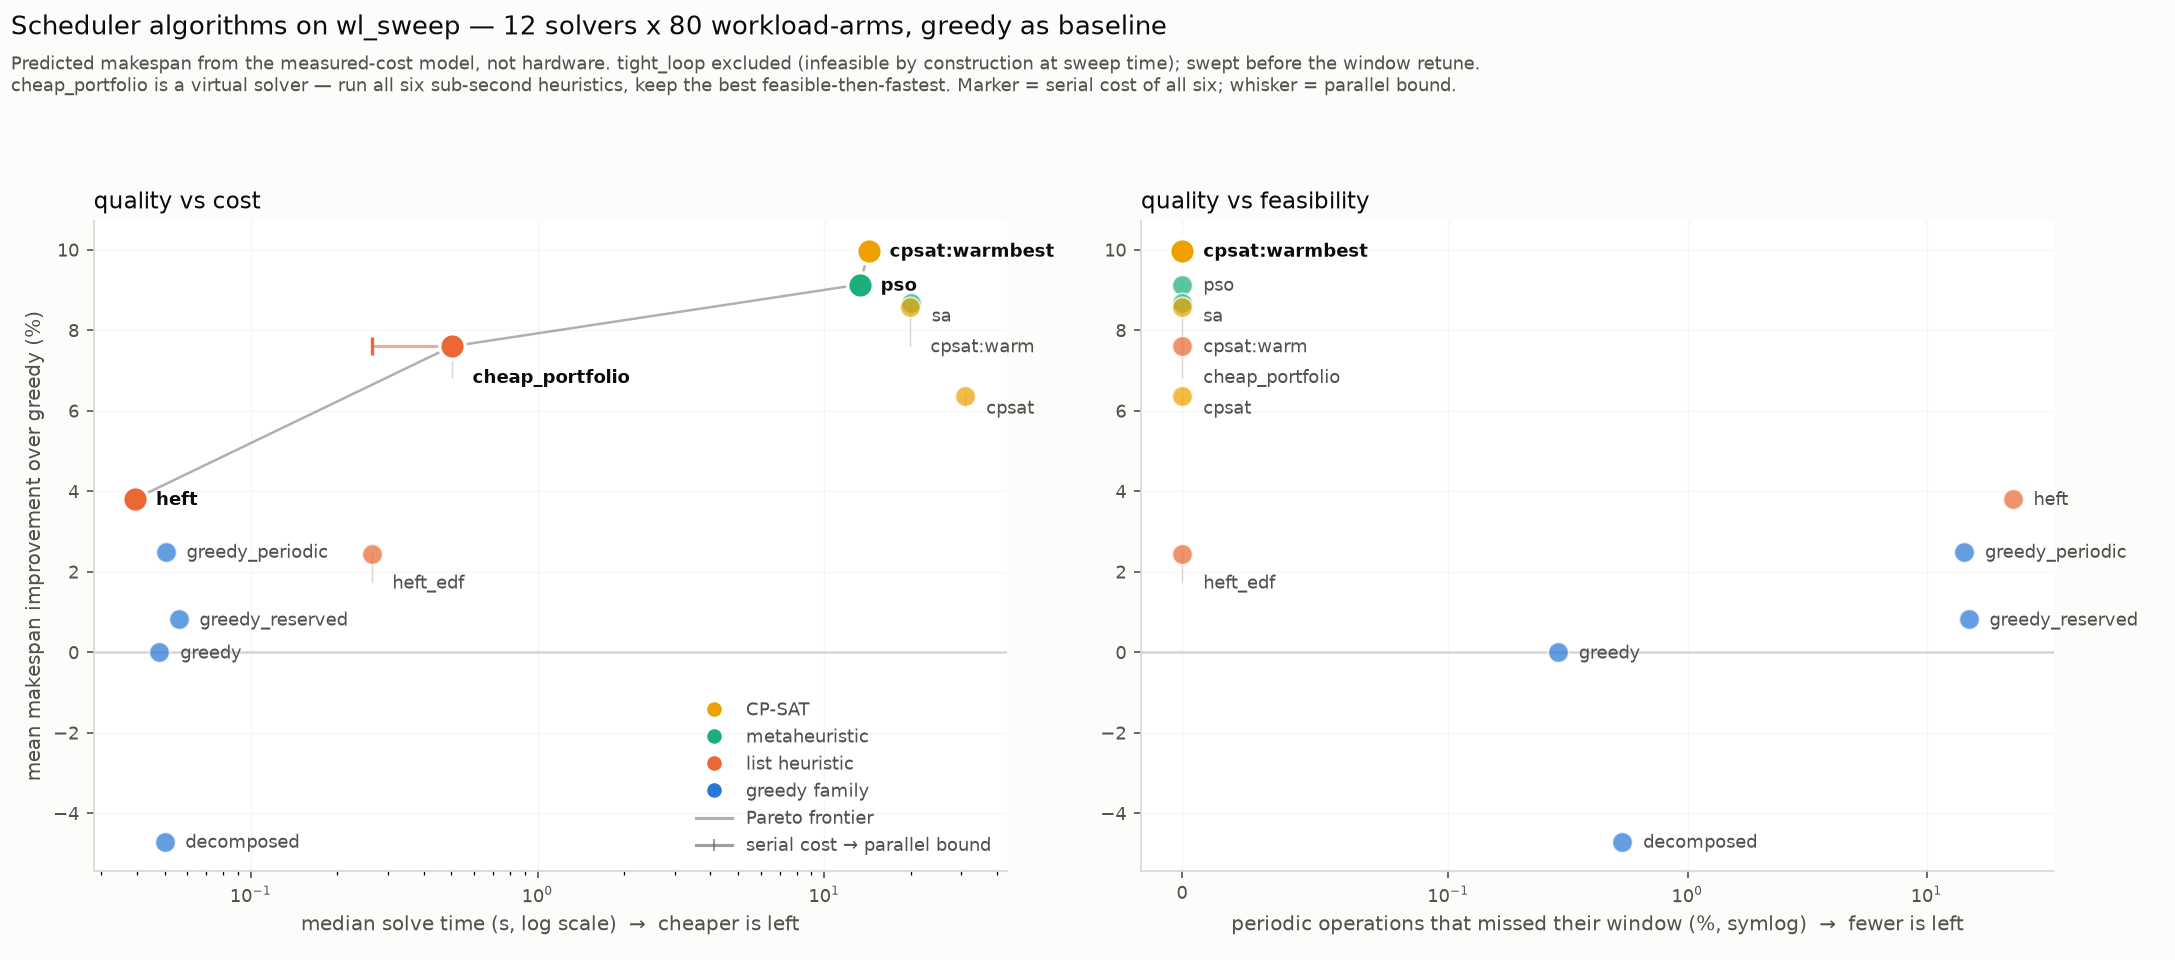
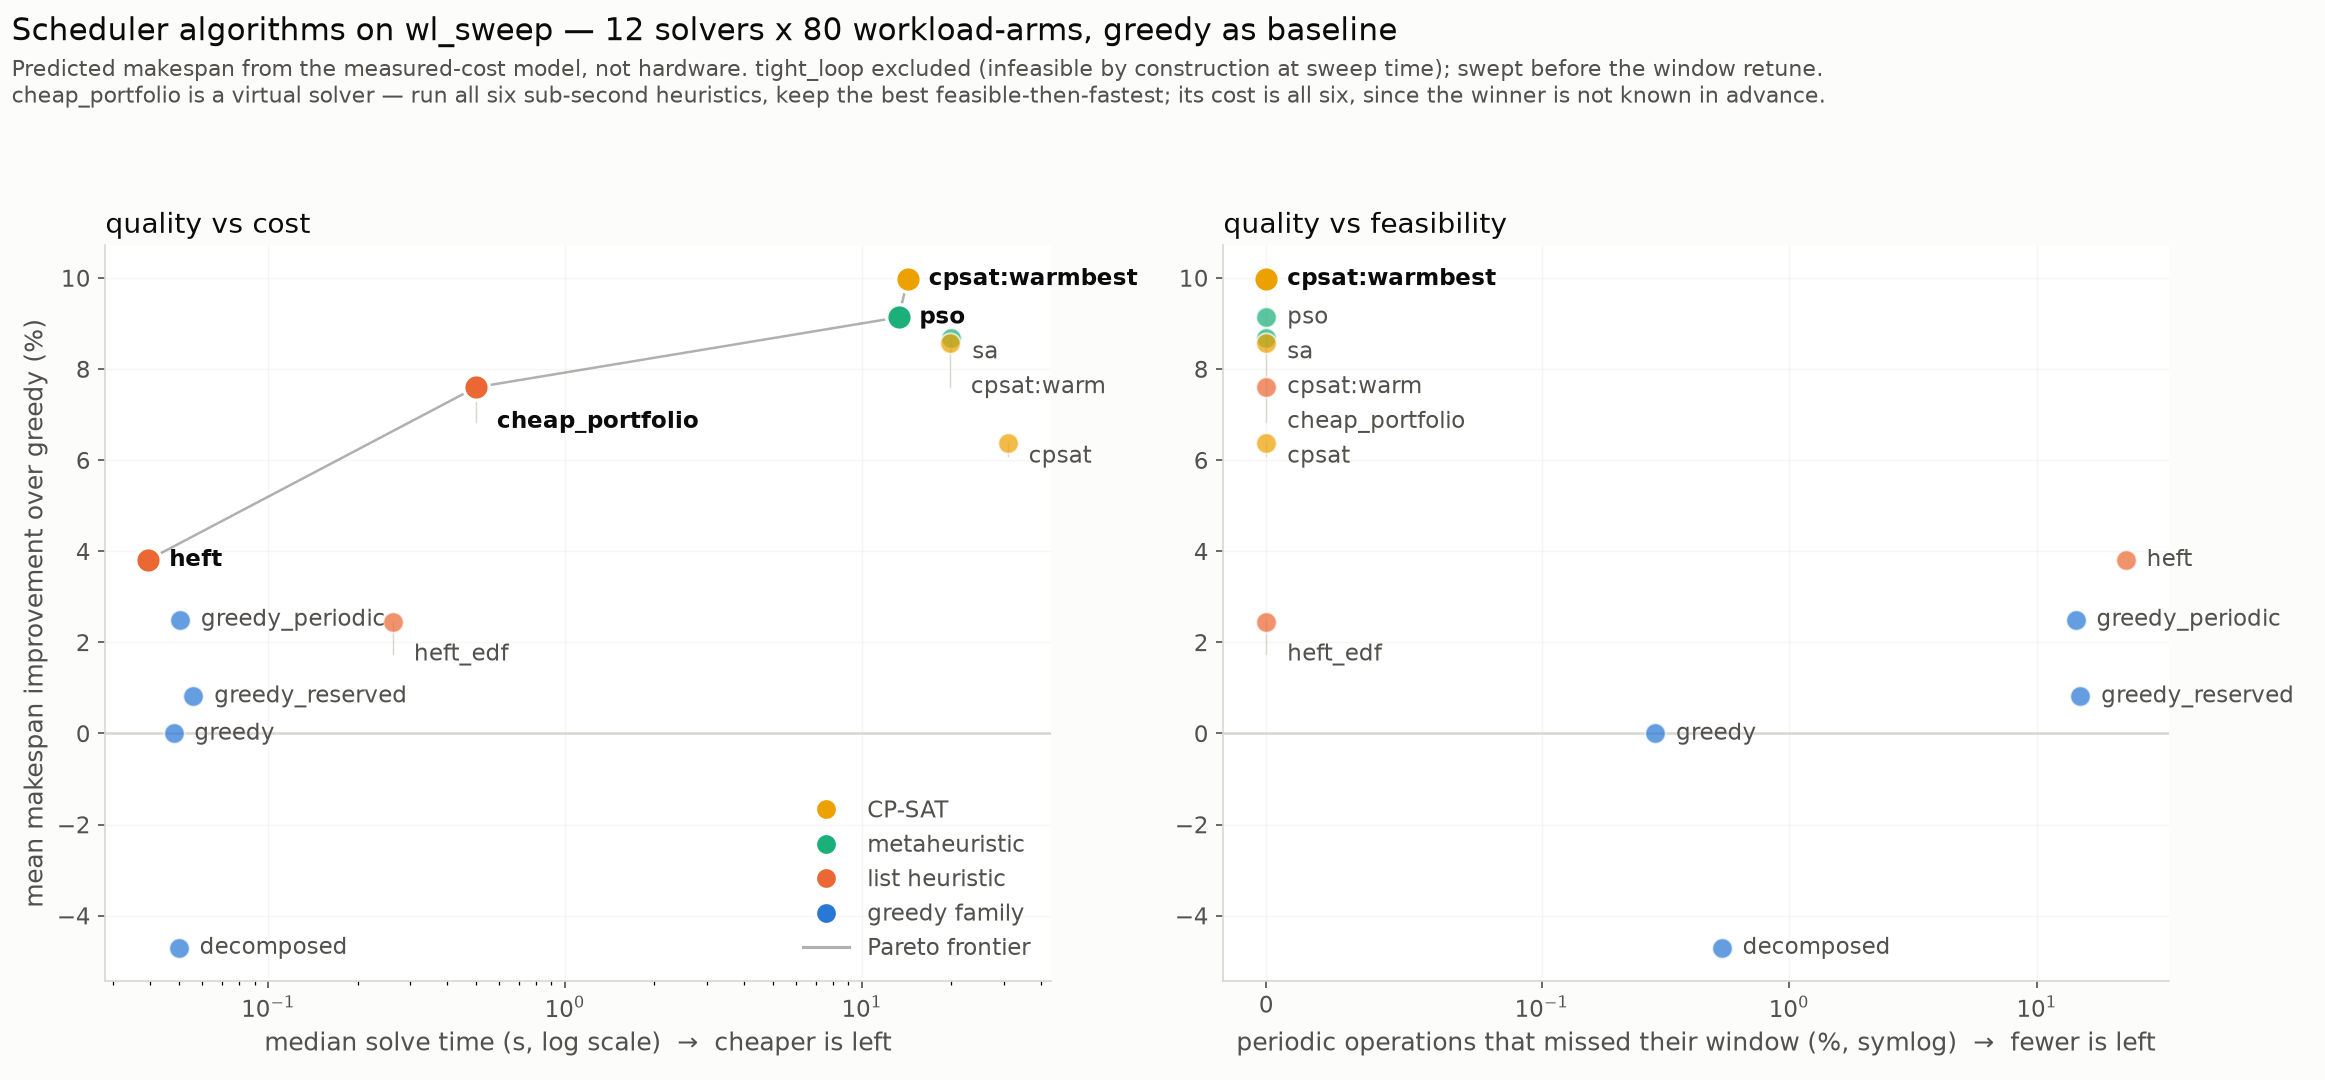
sched_algo_sweep10: drop the parallel-cost whisker, larger type
The serial-vs-parallel split was a distinction without a decision. You cannot
know which of the six heuristics wins on a given workload without running all
of them, so every one is on the critical path to the answer and the portfolio's
cost is all six regardless of how they are scheduled. Charging it anything less
would be quoting a number nobody can act on. Marker is the full cost; the
whisker and its caption are gone.

Type sizes up throughout -- point labels, axis labels, ticks, legend and titles
-- with the figure widened so nothing crowds.

diff --git a/experiments/sched_algo_sweep10/scripts/plot_pareto.py b/experiments/sched_algo_sweep10/scripts/plot_pareto.py
@@ -80,27 +80,11 @@ for r in rows:
     if po:
         miss_pct[s].append(m / po * 100.0)
 
-# COST HONESTY. cheap_portfolio is a virtual solver charged the SERIAL sum of
-# its six members, and cpsat:warmbest runs that same portfolio inline to build
-# its hint. But the six are independent, so the achievable cost is the SLOWEST
-# of them, not their sum. Rather than pick one number, plot the measured serial
-# cost as the marker and whisker left to the parallel bound.
-par_bound = {}
-_ser, _par, _wb = [], [], []
-for k, d in wall_by_cell.items():
-    six = [d[c] for c in CHEAP6 if c in d]
-    if len(six) != 6:
-        continue
-    _ser.append(sum(six)); _par.append(max(six))
-    if "cpsat:warmbest" in d:
-        _wb.append(d["cpsat:warmbest"] - (sum(six) - max(six)))
-if _par:
-    par_bound["cheap_portfolio"] = statistics.median(_par)
-if _wb:
-    par_bound["cpsat:warmbest"] = statistics.median(_wb)
-
+# The portfolio's cost is the sum of all six members, and that is the honest
+# number: you cannot know which of the six wins on a given workload without
+# running all of them, so every one is on the critical path to the answer.
 S = sorted(imp, key=lambda s: -statistics.mean(imp[s]))
-fig, (ax1, ax2) = plt.subplots(1, 2, figsize=(14.5, 6.4))
+fig, (ax1, ax2) = plt.subplots(1, 2, figsize=(15.5, 7.2))
 
 
 def frontier(ax, xs, ys, names, lower_x_better=True):
@@ -142,34 +126,30 @@ for ax, xs, xlabel, scale in (
         ax.scatter([x], [y], s=150 if on else 95, color=col, zorder=3,
                    edgecolor="white", linewidth=1.6 if on else 0.9,
                    alpha=1.0 if on else 0.72)
-        # whisker to the parallel-execution bound, on the cost axis only
-        if scale == "log" and s in par_bound and par_bound[s] < x:
-            ax.plot([par_bound[s], x], [y, y], color=col, lw=1.5, alpha=0.55, zorder=2)
-            ax.plot([par_bound[s]], [y], marker="|", color=col, ms=9, mew=1.6, zorder=3)
         ly = label_y[i]
         # a hairline leader only when the label had to move off its point
         if abs(ly - y) > gap * 0.35:
             ax.plot([x, x], [y, ly], color=GRID, lw=0.7, zorder=2)
         ax.annotate(s, (x, ly), textcoords="offset points", xytext=(10, -3),
-                    fontsize=8.5, color=INK if on else INK2,
+                    fontsize=11, color=INK if on else INK2,
                     fontweight="bold" if on else "normal", zorder=4)
     # symlog, not log, on the misses axis: six solvers sit at EXACTLY zero
     # misses, and a linear axis crushes them into one pile against heft's 2930
     # so no frontier can form. symlog keeps zero as a real, plottable value.
     ax.set_xscale(scale, **({"linthresh": 0.1} if scale == "symlog" else {}))
     ax.axhline(0, color=GRID, lw=1.2, zorder=0)
-    ax.set_xlabel(xlabel, fontsize=9.5, color=INK2)
+    ax.set_xlabel(xlabel, fontsize=12, color=INK2)
     ax.grid(alpha=0.22, lw=0.6, color=GRID)
     ax.set_axisbelow(True)
     for sp in ("top", "right"):
         ax.spines[sp].set_visible(False)
     for sp in ("left", "bottom"):
         ax.spines[sp].set_color(GRID)
-    ax.tick_params(colors=INK2, labelsize=8.5)
+    ax.tick_params(colors=INK2, labelsize=11)
 
-ax1.set_ylabel("mean makespan improvement over greedy (%)", fontsize=9.5, color=INK2)
-ax1.set_title("quality vs cost", fontsize=11, color=INK, loc="left")
-ax2.set_title("quality vs feasibility", fontsize=11, color=INK, loc="left")
+ax1.set_ylabel("mean makespan improvement over greedy (%)", fontsize=12, color=INK2)
+ax1.set_title("quality vs cost", fontsize=13.5, color=INK, loc="left")
+ax2.set_title("quality vs feasibility", fontsize=13.5, color=INK, loc="left")
 
 seen, handles = set(), []
 from matplotlib.lines import Line2D
@@ -177,23 +157,21 @@ for s in S:
     fam, col = FAMILY[s]
     if fam in seen: continue
     seen.add(fam)
-    handles.append(Line2D([], [], marker="o", ls="", color=col, markersize=8,
+    handles.append(Line2D([], [], marker="o", ls="", color=col, markersize=10,
                           markeredgecolor="white", label=fam))
 handles.append(Line2D([], [], ls="-", color=INK2, alpha=0.45, label="Pareto frontier"))
-handles.append(Line2D([], [], ls="-", marker="|", color=INK2, alpha=0.55,
-                      label="serial cost → parallel bound"))
-ax1.legend(handles=handles, loc="lower right", frameon=False, fontsize=8.5,
+ax1.legend(handles=handles, loc="lower right", frameon=False, fontsize=11,
            labelcolor=INK2)
 
 fig.suptitle("Scheduler algorithms on wl_sweep — 12 solvers x 80 workload-arms, "
-             "greedy as baseline", fontsize=12.5, color=INK, x=0.005, ha="left",
+             "greedy as baseline", fontsize=15, color=INK, x=0.005, ha="left",
              y=0.985)
 fig.text(0.005, 0.905,
          "Predicted makespan from the measured-cost model, not hardware. tight_loop excluded "
          "(infeasible by construction at sweep time); swept before the window retune.\n"
          "cheap_portfolio is a virtual solver — run all six sub-second heuristics, keep the best "
-         "feasible-then-fastest. Marker = serial cost of all six; whisker = parallel bound.",
-         fontsize=8.5, color=INK2, ha="left")
+         "feasible-then-fastest; its cost is all six, since the winner is not known in advance.",
+         fontsize=10.5, color=INK2, ha="left")
 fig.tight_layout(rect=[0, 0, 1, 0.875])
 out = os.path.join(os.path.dirname(HERE), "plots", "solver_pareto.png")
 fig.savefig(out, dpi=150, facecolor="#fcfcfb")
